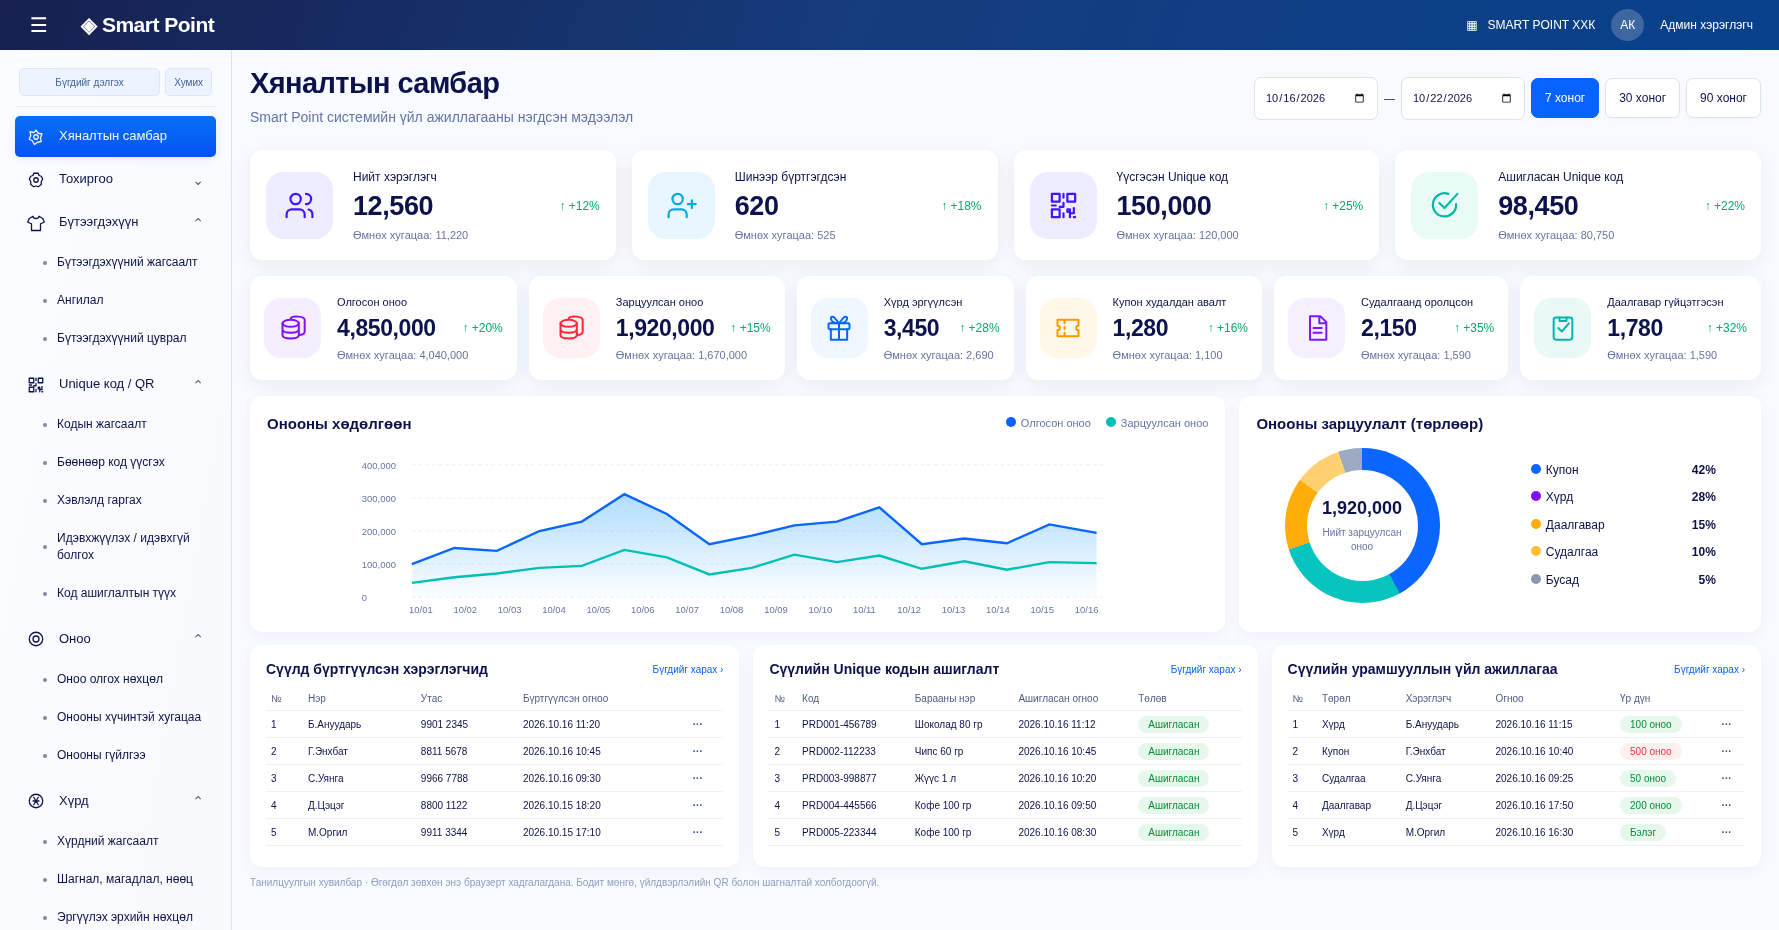
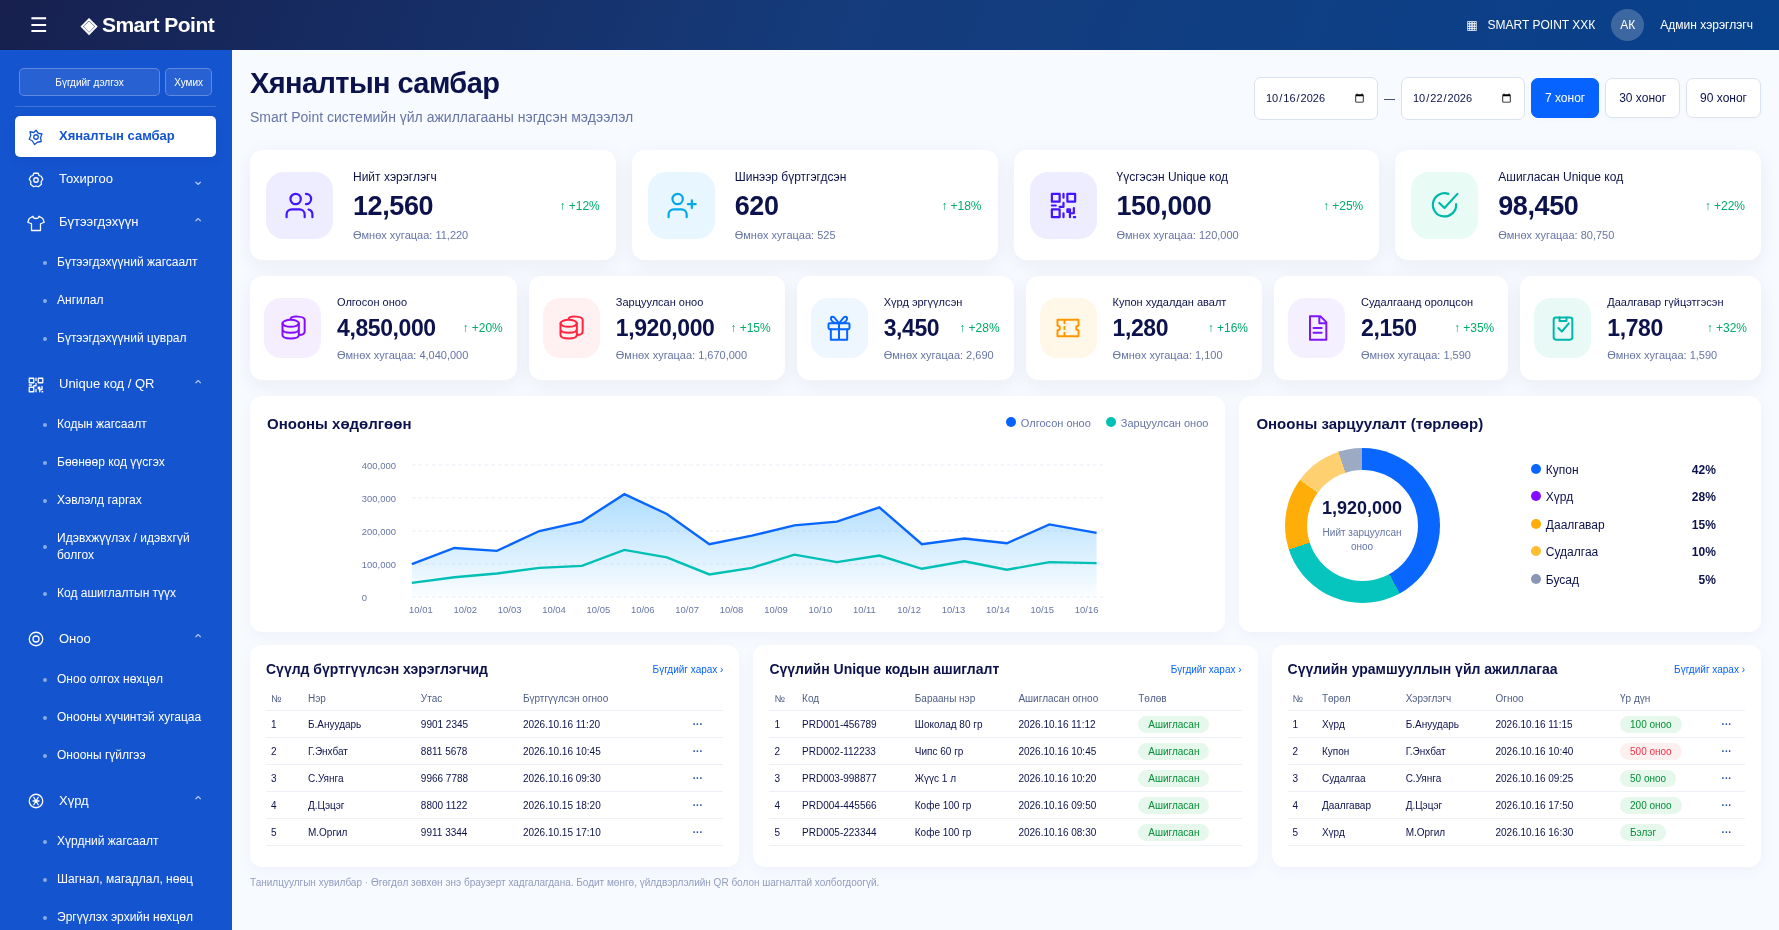
Apply reference blue color to admin sidebar

Changed region(s): [[0.0, 0.0312, 0.1546, 1.0]]

diff --git a/index.html b/index.html
@@ -1,1 +1,1 @@
-<!doctype html><html lang="mn"><head><meta charset="utf-8"><meta name="viewport" content="width=device-width,initial-scale=1"><title>Smart Point Admin • Удирдлагын систем</title><link rel="stylesheet" href="assets/style.css?v=20261022-admin"></head><body><header><button id="menu" aria-label="Цэс">☰</button><strong>◈ Smart Point</strong><span class="header-right">▦ &nbsp; SMART POINT ХХК <span class="avatar">АК</span> Админ хэрэглэгч</span></header><aside id="sidebar"><p class="muted">УДИРДЛАГА</p><nav id="nav"></nav><div class="sidebar-bottom">Smart Point v0.1<br><small>Туршилтын орчин • Local demo</small></div></aside><main><div class="title-row"><div><h1 id="title"></h1><p id="subtitle"></p></div><div id="filters"><input type="date" id="from" aria-label="Эхлэх огноо"><span>—</span><input type="date" id="to" aria-label="Дуусах огноо"><button data-days="7" class="selected">7 хоног</button><button data-days="30">30 хоног</button><button data-days="90">90 хоног</button></div></div><div id="view"></div><footer>Танилцуулгын хувилбар · Өгөгдөл зөвхөн энэ браузерт хадгалагдана. Бодит мөнгө, үйлдвэрлэлийн QR болон шагналтай холбогдоогүй.</footer></main><dialog id="dialog"><h2 id="dialogTitle"></h2><div id="dialogBody"></div><button id="close">Хаах</button></dialog><div id="toast" role="status"></div><script src="assets/app.js?v=20261022-admin"></script></body></html>
+<!doctype html><html lang="mn"><head><meta charset="utf-8"><meta name="viewport" content="width=device-width,initial-scale=1"><title>Smart Point Admin • Удирдлагын систем</title><link rel="stylesheet" href="assets/style.css?v=20261022-blue-sidebar"></head><body><header><button id="menu" aria-label="Цэс">☰</button><strong>◈ Smart Point</strong><span class="header-right">▦ &nbsp; SMART POINT ХХК <span class="avatar">АК</span> Админ хэрэглэгч</span></header><aside id="sidebar"><p class="muted">УДИРДЛАГА</p><nav id="nav"></nav><div class="sidebar-bottom">Smart Point v0.1<br><small>Туршилтын орчин • Local demo</small></div></aside><main><div class="title-row"><div><h1 id="title"></h1><p id="subtitle"></p></div><div id="filters"><input type="date" id="from" aria-label="Эхлэх огноо"><span>—</span><input type="date" id="to" aria-label="Дуусах огноо"><button data-days="7" class="selected">7 хоног</button><button data-days="30">30 хоног</button><button data-days="90">90 хоног</button></div></div><div id="view"></div><footer>Танилцуулгын хувилбар · Өгөгдөл зөвхөн энэ браузерт хадгалагдана. Бодит мөнгө, үйлдвэрлэлийн QR болон шагналтай холбогдоогүй.</footer></main><dialog id="dialog"><h2 id="dialogTitle"></h2><div id="dialogBody"></div><button id="close">Хаах</button></dialog><div id="toast" role="status"></div><script src="assets/app.js?v=20261022-admin"></script></body></html>

diff --git a/assets/style.css b/assets/style.css
@@ -10,3 +10,13 @@
 #sidebar{overflow-y:auto;overscroll-behavior:contain;scrollbar-width:thin;scrollbar-color:#d9e2f0 transparent}#nav .menu-button{display:flex;width:100%;height:auto;min-height:41px;gap:13px;padding:11px 12px;text-align:left;margin:2px 0}#nav .menu-button .menu-icon{display:flex;align-items:center;width:19px;flex-shrink:0}#nav .menu-button .menu-label{width:auto;flex:1;line-height:1.45;font-size:13px}#nav .menu-button .menu-chevron{width:auto;font-size:14px;opacity:.7}#nav .menu-button.has-selection{color:#075fe9;background:#edf4ff}#nav .menu-button.depth-1{padding:9px 10px 9px 28px;min-height:36px;gap:10px}#nav .menu-button.depth-2{padding:9px 8px 9px 43px;min-height:35px;gap:8px}#nav .depth-1 .menu-label,#nav .depth-2 .menu-label{font-size:12px}#nav .menu-bullet{display:block!important;width:4px!important;height:4px;border-radius:50%;background:currentColor;opacity:.5;flex-shrink:0}#nav .submenu{margin:2px 0 7px}#nav .submenu[hidden]{display:none}#nav button:focus-visible{outline:2px solid #0966ff;outline-offset:2px}#nav .depth-1.active,#nav .depth-2.active{background:#e8f1ff;color:#0658df;box-shadow:none;font-weight:600}
 
 #nav .menu-controls{display:flex;gap:5px;padding:0 4px 10px;border-bottom:1px solid #e7edf7;margin-bottom:9px}#nav .menu-controls button{width:auto;min-height:28px;height:auto;font-size:10px;padding:6px 8px;margin:0;background:#eef4ff;color:#416399;border:1px solid #dce7f8;justify-content:center}#nav .menu-controls button:first-child{flex:1}
+/* Blue sidebar supplied in the design reference. */
+#sidebar{background:#1554cf;border-right-color:#1554cf;scrollbar-color:#ffffff66 transparent;color:#fff}
+#nav .menu-button{color:#fff;background:transparent}
+#nav .menu-button:hover{background:#ffffff14;filter:none}
+#nav .menu-button.has-selection{background:#ffffff16;color:#fff}
+#nav .menu-button.active,#nav .depth-1.active,#nav .depth-2.active{background:#fff;color:#1554cf;box-shadow:0 3px 10px #082f8c20;font-weight:600}
+#nav .menu-controls{border-bottom-color:#ffffff30}
+#nav .menu-controls button{background:#ffffff14;border-color:#ffffff40;color:#fff}
+#nav .menu-controls button:hover{background:#ffffff26;filter:none}
+#nav button:focus-visible{outline-color:#fff;outline-offset:2px}
